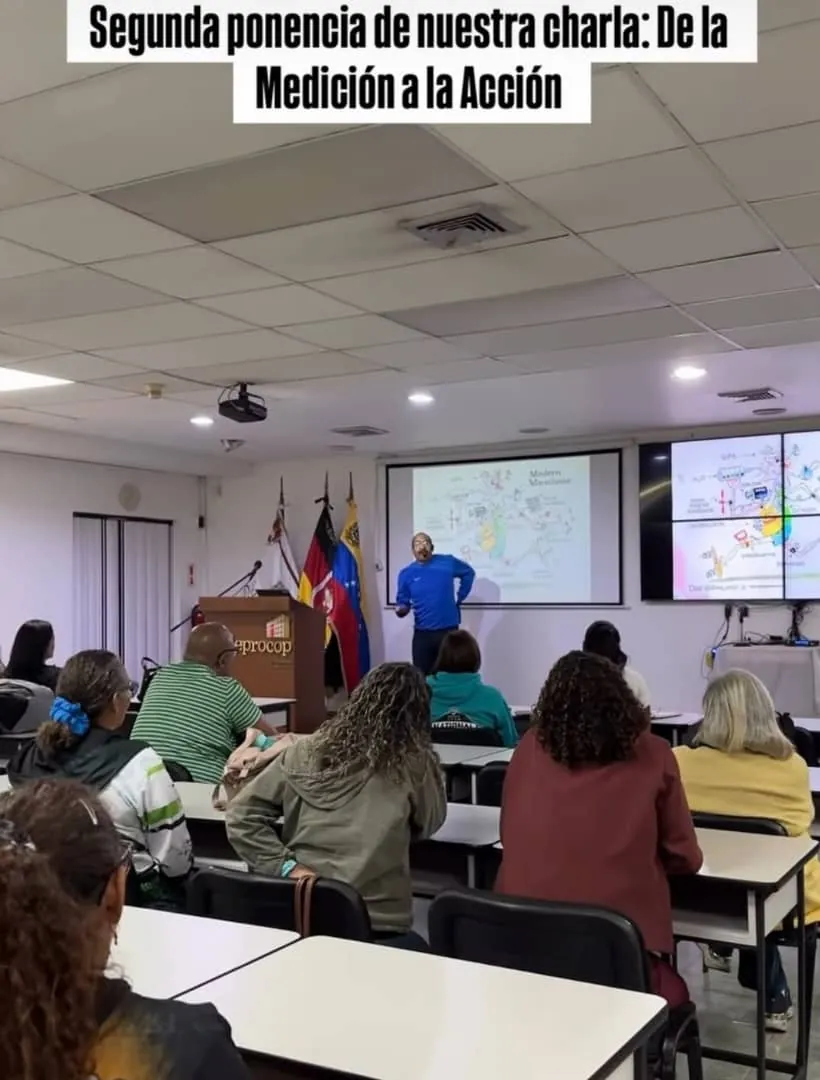
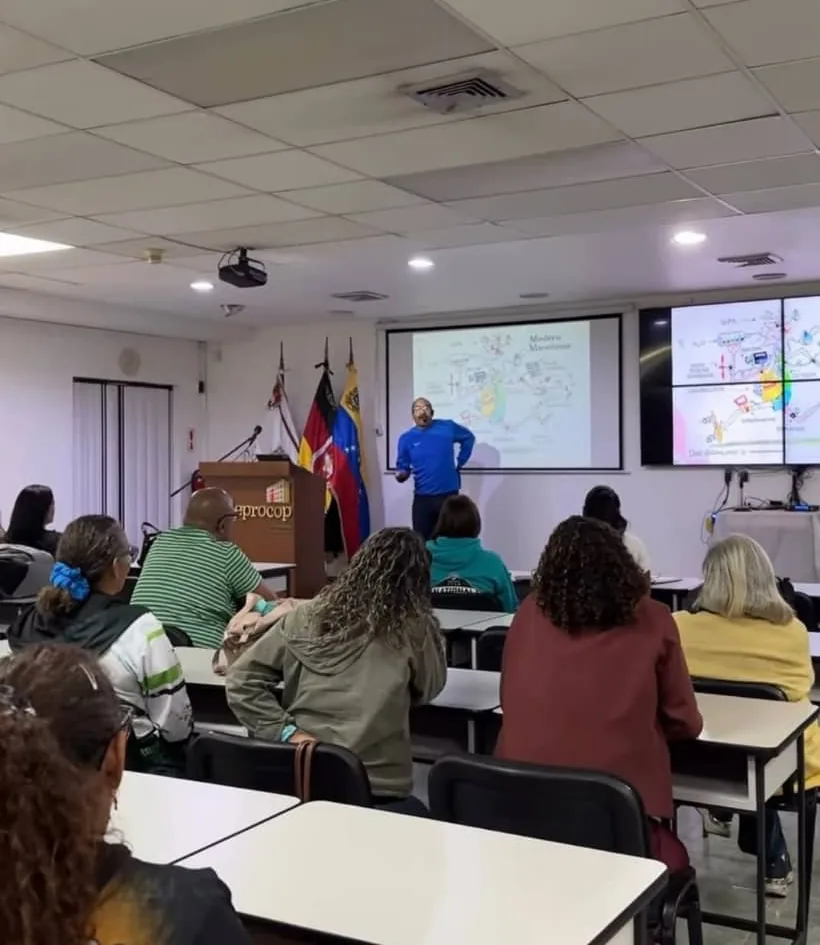
Actualizar vista previa: carrusel, esfera del hero y recortes
Claude-Session: https://claude.ai/code/session_01QJrFmoHq6yrqBP18taPARZ

diff --git a/rediseno.css b/rediseno.css
@@ -198,6 +198,9 @@ h1, h2, h3, h4, p { margin: 0; }
 .stage { position: relative; width: 100%; max-width: 680px; margin-inline: auto; aspect-ratio: 1 / .86; container-type: inline-size; }
 .sphere { position: absolute; height: auto; max-width: none; pointer-events: none; user-select: none; will-change: transform; }
 .stage .sphere { left: 50%; top: 52%; width: 84%; transform: translate(-50%, -50%) translate3d(var(--px, 0), var(--py, 0), 0); filter: drop-shadow(0 40px 60px rgba(0,0,0,.45)); }
+/* Hero de inicio: esfera más grande y desplazada a la izquierda (punto medio entre hero y cierre) */
+.hero .stage .sphere { left: 45%; top: 55%; width: 112%; }
+@media (max-width: 1023px) { .hero .stage .sphere { left: 48%; width: 104%; } }
 .sphere-spin { animation: float 9s ease-in-out infinite; }
 @keyframes float { 50% { translate: 0 -14px; rotate: 3deg; } }
 
@@ -226,7 +229,7 @@ h1, h2, h3, h4, p { margin: 0; }
 .photo-tilt { position: relative; aspect-ratio: 4 / 3; }
 .photo-tilt .ring { left: -8%; top: 28%; width: 116%; height: 58%; transform: rotate(-12deg); }
 .photo-tilt figure { position: absolute; inset: 6% 4%; margin: 0; overflow: hidden; border-radius: 7% / 10%; transform: rotate(7deg) skewX(-6deg); box-shadow: 0 30px 60px -25px rgba(0,0,0,.6), 0 0 0 2px color-mix(in srgb, white 60%, transparent); }
-.photo-tilt img { width: 100%; height: 100%; object-fit: cover; transform: scale(1.08); }
+.photo-tilt img { width: 100%; height: 100%; object-fit: cover; transform: scale(1.02); }
 .ring { position: absolute; border: 1.5px solid var(--lgd-accent); border-radius: 50%; filter: drop-shadow(0 0 6px var(--lgd-accent)); pointer-events: none; }
 .orb { position: absolute; border-radius: 50%; pointer-events: none; background: radial-gradient(circle at 35% 25%, var(--lgd-accent) 0%, var(--lgd-accent-deep) 34%, var(--lgd-bg) 82%); opacity: .9; }
 
@@ -238,7 +241,7 @@ h1, h2, h3, h4, p { margin: 0; }
 .act-card .media { position: relative; aspect-ratio: 4 / 3; overflow: hidden; }
 .act-card .media img { width: 100%; height: 100%; object-fit: cover; transition: transform .8s var(--ease-out); }
 .act-card:hover .media img { transform: scale(1.07); }
-.act-card .tag { position: absolute; right: 6cqw; top: 6cqw; padding: 1.6cqw 4cqw; border-radius: 999px; background: var(--lgd-paper); font-size: 4.6cqw; font-weight: 700; }
+.act-card .tag { position: absolute; left: 6cqw; bottom: 6cqw; padding: 1.6cqw 4cqw; border-radius: 999px; background: var(--lgd-paper); font-size: 4.6cqw; font-weight: 700; }
 .act-card .tag.live { background: var(--lgd-accent); color: var(--lgd-action-ink); }
 .act-card .body { display: flex; align-items: center; gap: 5cqw; padding: 5cqw 7cqw 9cqw; }
 .act-card .body svg { width: 13cqw; height: 13cqw; flex: none; }
@@ -514,10 +517,11 @@ h1, h2, h3, h4, p { margin: 0; }
 
 @media (prefers-reduced-motion: reduce) {
   html { scroll-behavior: auto; }
-  *, *::before, *::after { animation: none !important; transition: none !important; }
+  *, *::before, *::after { transition: none !important; }
+  *:not(.logo-track), *::before, *::after { animation: none !important; }
   .js [data-reveal] { opacity: 1; transform: none; }
-  .logo-track { flex-wrap: wrap; width: auto; justify-content: center; }
-  .logo-track [aria-hidden="true"] { display: none; }
+  /* El carrusel de aliados sigue en movimiento, más lento, y se pausa al pasar el cursor */
+  .logo-track { animation-duration: 90s !important; }
 }
 
 /* Transición suave entre páginas en navegadores compatibles */

diff --git a/deporte-sostenible.html b/deporte-sostenible.html
@@ -150,7 +150,7 @@
           <div class="stage" data-reveal="zoom" style="aspect-ratio: 1 / .78">
             <img class="sphere " data-depth="0.5" src="./src/assets/rediseno/esfera-oliva-900.webp" srcset="./src/assets/rediseno/esfera-oliva-900.webp 900w, ./src/assets/rediseno/esfera-oliva.webp 1119w" sizes="(min-width: 1024px) 680px, 90vw" data-src-oliva="./src/assets/rediseno/esfera-oliva-900.webp" data-src-amatista="./src/assets/rediseno/esfera-amatista-900.webp" data-srcset-oliva="./src/assets/rediseno/esfera-oliva-900.webp 900w, ./src/assets/rediseno/esfera-oliva.webp 1119w" data-srcset-amatista="./src/assets/rediseno/esfera-amatista-900.webp 900w, ./src/assets/rediseno/esfera-amatista.webp 1159w" alt="" aria-hidden="true" width="900" height="828" />
             <div class="photo-tilt" style="position:absolute;inset:4% 2% 10%">
-              <figure data-depth="0.25" style="transform: translate3d(var(--px,0),var(--py,0),0) rotate(6deg) skewX(-5deg)"><img style="object-position:50% 28%" src="./src/assets/rediseno/fotos/playa-02.webp" alt="Jornada ecológica y deportiva de la comunidad gremial en la playa" /></figure>
+              <figure data-depth="0.25" style="transform: translate3d(var(--px,0),var(--py,0),0) rotate(6deg) skewX(-5deg)"><img style="object-position:50% 45%" src="./src/assets/rediseno/fotos/playa-03.webp" alt="Participantes de la Liga en una jornada deportiva en la playa" /></figure>
             </div>
           </div>
         </div>
